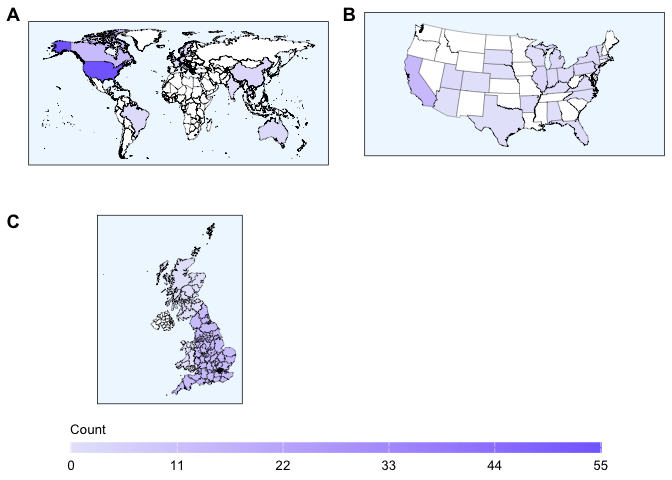
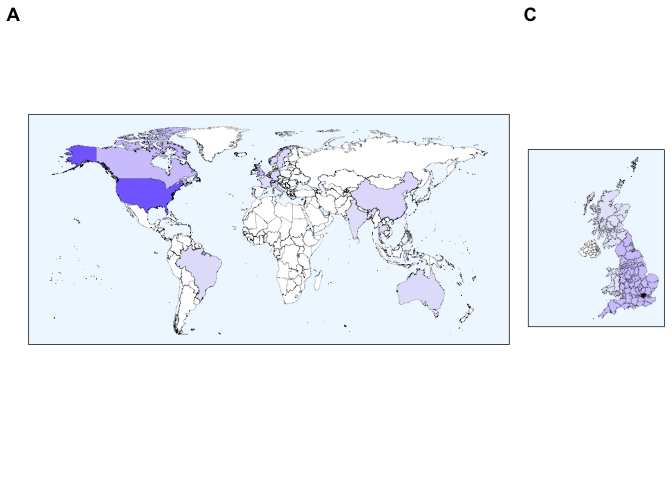
adjusted line width and plot order for choropleth array

diff --git a/scripts/cleaning-script.md b/scripts/cleaning-script.md
@@ -413,7 +413,7 @@ crs_robin <- "+proj=robin +lat_0=0 +lon_0=0 +x0=0 +y0=0"
 spatial_frequencies_joined <- left_join(global_shapefile,spatial_frequencies,by="country")
 national_frequencies <- spatial_frequencies_joined %>%
   ggplot(aes(x=long,y=lat,fill=frequency,group=group)) + 
-  geom_polygon(color="black",linewidth=0.1) +
+  geom_polygon(color="black",linewidth=0.05) +
   scale_fill_gradient(low="lavender",high="lightslateblue",na.value="white",limits=c(0,55),breaks=c(0,11,22,33,44,55)) +
   coord_sf(crs=crs_robin) +
   xlab("") + 
@@ -430,10 +430,7 @@ usa_shapefile <- map_data("county") %>%
   rename(state=region)
 ```
 
-``` r
-usa_shapefile <- map_data("state") %>%
-  rename(state=region)
-```
+usa_shapefile \<- map_data(“state”) %\>% rename(state=region)
 
 ``` r
 state_frequencies <- extraction_data %>%
@@ -480,7 +477,7 @@ state_frequencies_joined <- left_join(usa_shapefile,state_frequencies,by="state"
 ``` r
 usa_frequencies <- state_frequencies_joined %>%
   ggplot(aes(x=long,y=lat,fill=frequency,group=group)) + 
-  geom_polygon(color="black",linewidth=0.1) +
+  geom_polygon(color="black",linewidth=0.05) +
   scale_fill_gradient(low="lavender",high="lightslateblue",na.value="white",limits=c(1,55)) +
   xlab("") + 
   ylab("") +
@@ -515,6 +512,38 @@ uk_shapefile <- ne_states(country="united kingdom",returnclass="sf")
 ```
 
 ``` r
+as.tibble(uk_shapefile)
+```
+
+    ## Warning: `as.tibble()` was deprecated in tibble 2.0.0.
+    ## ℹ Please use `as_tibble()` instead.
+    ## ℹ The signature and semantics have changed, see `?as_tibble`.
+    ## This warning is displayed once every 8 hours.
+    ## Call `lifecycle::last_lifecycle_warnings()` to see where this warning was
+    ## generated.
+
+    ## # A tibble: 232 × 122
+    ##    featurecla    scalerank adm1_code diss_me iso_3166_2 wikipedia iso_a2 adm0_sr
+    ##    <chr>             <int> <chr>       <int> <chr>      <chr>     <chr>    <int>
+    ##  1 Admin-1 stat…         8 GBR-2083     2083 GB-DRY     <NA>      GB           1
+    ##  2 Admin-1 stat…         8 GBR-2135     2135 GB-STB     <NA>      GB           1
+    ##  3 Admin-1 stat…         8 GBR-2136     2136 GB-FER     <NA>      GB           1
+    ##  4 Admin-1 stat…         8 GBR-2089     2089 GB-DGN     <NA>      GB           1
+    ##  5 Admin-1 stat…         8 GBR-2085     2085 GB-ARM     <NA>      GB           1
+    ##  6 Admin-1 stat…         8 GBR-2086     2086 GB-NYM     <NA>      GB           1
+    ##  7 Admin-1 stat…         8 GBR-2126     2126 GB-FLN     <NA>      GB           1
+    ##  8 Admin-1 stat…         8 GBR-5707     5707 GB-CHW     <NA>      GB           1
+    ##  9 Admin-1 stat…         8 GBR-2127     2127 GB-WRX     <NA>      GB           1
+    ## 10 Admin-1 stat…         8 GBR-2779     2779 GB-SHR     <NA>      GB           1
+    ## # ℹ 222 more rows
+    ## # ℹ 114 more variables: name <chr>, name_alt <chr>, name_local <chr>,
+    ## #   type <chr>, type_en <chr>, code_local <chr>, code_hasc <chr>, note <chr>,
+    ## #   hasc_maybe <chr>, region <chr>, region_cod <chr>, provnum_ne <int>,
+    ## #   gadm_level <int>, check_me <int>, datarank <int>, abbrev <chr>,
+    ## #   postal <chr>, area_sqkm <int>, sameascity <int>, labelrank <int>,
+    ## #   name_len <int>, mapcolor9 <int>, mapcolor13 <int>, fips <chr>, …
+
+``` r
 subnational_frequencies <- subnational_frequencies %>%
   mutate(across('subregion',str_replace,"Great Britain","England")) %>%
   rename(geonunit=subregion)
@@ -535,11 +564,14 @@ subnational_frequencies_joined <- left_join(uk_shapefile,subnational_frequencies
 ``` r
 uk_frequencies <- subnational_frequencies_joined %>%
 ggplot(aes(fill=frequency,group=geonunit)) + 
-  geom_sf(aes(fill=frequency),color="black",linewidth=0.1) +
+  geom_sf(aes(fill=frequency),color="black",linewidth=0.05) +
   scale_fill_gradient(low="lavender",high="lightslateblue",na.value="white",limits=c(1,55)) +
   labs(fill="Count") +
   theme(aspect.ratio=1.3,legend.position="bottom",legend.title.position="top",legend.key.width=unit(80,"pt"),legend.key.height=unit(8,"pt"),panel.grid=element_blank(),panel.background=element_rect(fill="aliceblue"),panel.border=element_rect(fill=NA),axis.text=element_blank(),axis.ticks=element_blank(),legend.title=element_text(size=10),legend.text=element_text(size=10),plot.title=element_text(size=10))
+uk_frequencies
 ```
+
+![](cleaning-script_files/figure-gfm/unnamed-chunk-22-1.png)<!-- -->
 
 ``` r
 dummy_legend <- temporal_frequencies_plot
@@ -561,8 +593,8 @@ choro_legend
 ``` r
 subnational_frequency_choros <- ggarrange(usa_frequencies,uk_frequencies,
                                          ncol=2,
-                                         widths=c(1,1),
-                                         heights=c(1.2,1),
+                                         widths=c(1,.7),
+                                         heights=c(1,1),
                                          labels=c("B","C"),
                                          common.legend=TRUE,
                                          legend="bottom")
@@ -573,14 +605,36 @@ national_frequency_choros <- ggarrange(national_frequencies,
 ```
 
 ``` r
-ggarrange(national_frequencies,usa_frequencies,uk_frequencies,
-          nrows=2,
-          labels=c("A","B","C"),
+choro_row1 <- ggarrange(national_frequencies,uk_frequencies,
+          ncol=2,
+          widths=c(1,0.3),
+          labels=c("A","C"),
           common.legend=TRUE,
-          legend="bottom")
+          legend="none")
+choro_row1
 ```
 
 ![](cleaning-script_files/figure-gfm/unnamed-chunk-25-1.png)<!-- -->
+
+``` r
+choro_row2 <- ggarrange(usa_frequencies,
+          labels=c("B"),
+          ncol=1,
+          legend="bottom")
+choro_row2
+```
+
+![](cleaning-script_files/figure-gfm/unnamed-chunk-26-1.png)<!-- -->
+
+``` r
+spatial_plots_2 <- ggarrange(choro_row1,choro_row2,
+                           nrow=2,
+                           heights=c(1,1))
+ggsave(filename="publication-distribution_2.png",plot=spatial_plots_2,path="/Users/kenjinchang/github/stakeholder-analysis/figures",width=35,height=28,units="cm",dpi=150,limitsize=TRUE)
+spatial_plots_2
+```
+
+![](cleaning-script_files/figure-gfm/unnamed-chunk-27-1.png)<!-- -->
 
 ``` r
 spatial_plots <- ggarrange(national_frequency_choros,subnational_frequency_choros,
@@ -590,7 +644,7 @@ ggsave(filename="publication-distribution.png",plot=spatial_plots,path="/Users/k
 spatial_plots
 ```
 
-![](cleaning-script_files/figure-gfm/unnamed-chunk-26-1.png)<!-- -->
+![](cleaning-script_files/figure-gfm/unnamed-chunk-28-1.png)<!-- -->
 
 ### Primary Performance Indicators
 
@@ -748,7 +802,7 @@ print(round(ppi_percentage_contributions,2))
 pheatmap(ppi_percentage_contributions,display_numbers=TRUE,cluster_rows=FALSE,cluster_cols=FALSE,main="Percentage Contributions to Chi-Square Statistic")
 ```
 
-![](cleaning-script_files/figure-gfm/unnamed-chunk-37-1.png)<!-- -->
+![](cleaning-script_files/figure-gfm/unnamed-chunk-39-1.png)<!-- -->
 
 ``` r
 ppi_contingency_table_alt <- ppi_contingency_table %>%
@@ -929,7 +983,7 @@ api_frequencies_plot <- api_contigency_table_alt %>%
 api_frequencies_plot
 ```
 
-![](cleaning-script_files/figure-gfm/unnamed-chunk-44-1.png)<!-- -->
+![](cleaning-script_files/figure-gfm/unnamed-chunk-46-1.png)<!-- -->
 
 ``` r
 ggsave(filename="acceptability-theme-frequencies.png",plot=api_frequencies_plot,path="/Users/kenjinchang/github/stakeholder-analysis/figures",width=30,height=15,units="cm",dpi=150,limitsize=TRUE)
@@ -1037,7 +1091,7 @@ library(pheatmap)
 pheatmap(api_percentage_contributions,display_numbers=TRUE,cluster_rows=FALSE,cluster_cols=FALSE,main="Percentage Contributions to Chi-Square Statistic")
 ```
 
-![](cleaning-script_files/figure-gfm/unnamed-chunk-51-1.png)<!-- -->
+![](cleaning-script_files/figure-gfm/unnamed-chunk-53-1.png)<!-- -->
 
 Rerun this using list class instead of variety class
 
@@ -1311,7 +1365,7 @@ print(round(qpi_percentage_contributions,2))
 pheatmap(qpi_percentage_contributions,display_numbers=TRUE,cluster_rows=FALSE,cluster_cols=FALSE,main="Percentage Contributions to Chi-Square Statistic")
 ```
 
-![](cleaning-script_files/figure-gfm/unnamed-chunk-71-1.png)<!-- -->
+![](cleaning-script_files/figure-gfm/unnamed-chunk-73-1.png)<!-- -->
 
 ``` r
 principal_qualifying_indicator_plots <- ggarrange(ppi_frequencies_plot,qpi_frequencies_plot,
@@ -1328,7 +1382,7 @@ ggsave(filename="combined-performance-indicators.png",plot=combined_indicators,p
 combined_indicators
 ```
 
-![](cleaning-script_files/figure-gfm/unnamed-chunk-73-1.png)<!-- -->
+![](cleaning-script_files/figure-gfm/unnamed-chunk-75-1.png)<!-- -->
 
 ### Gap Monitoring
 
@@ -1545,7 +1599,7 @@ duration_data %>% ggplot(aes(x=role,y=position_duration,fill=position_type)) +
   geom_col() 
 ```
 
-![](cleaning-script_files/figure-gfm/unnamed-chunk-80-1.png)<!-- -->
+![](cleaning-script_files/figure-gfm/unnamed-chunk-82-1.png)<!-- -->
 
 ``` r
 authority <- c("Decision Maker","Decision Maker","Decision Maker","Decision Maker","Consultant","Consultant","Consultant","Consultant","Consultant","Consultant","Consultant","Consultant")
@@ -1615,7 +1669,7 @@ ggsave(filename="predictors-of-authority.png",plot=duration_roletype_plots,path=
 duration_roletype_plots
 ```
 
-![](cleaning-script_files/figure-gfm/unnamed-chunk-84-1.png)<!-- -->
+![](cleaning-script_files/figure-gfm/unnamed-chunk-86-1.png)<!-- -->
 
 ``` r
 duration_data %>%
@@ -2031,7 +2085,7 @@ score_frequencies %>%
   theme(legend.position="none",panel.grid=element_blank(),panel.background=element_rect(fill="white"),panel.border=element_rect(fill=NA),legend.title=element_text(size=10),legend.text=element_text(size=10),plot.title=element_text(size=10))
 ```
 
-![](cleaning-script_files/figure-gfm/unnamed-chunk-101-1.png)<!-- -->
+![](cleaning-script_files/figure-gfm/unnamed-chunk-103-1.png)<!-- -->
 need to put anova value in caption - could also consider boxplot/violin
 plot
 
@@ -2235,7 +2289,7 @@ print(round(first_choice_percentage_contributions,2))
 pheatmap(first_choice_percentage_contributions,display_numbers=TRUE,cluster_rows=FALSE,cluster_cols=FALSE,main="Percentage Contributions to Chi-Square Statistic")
 ```
 
-![](cleaning-script_files/figure-gfm/unnamed-chunk-112-1.png)<!-- -->
+![](cleaning-script_files/figure-gfm/unnamed-chunk-114-1.png)<!-- -->
 
 ``` r
 first_choice_contingency_table <- first_choice_frequencies %>%
@@ -2319,7 +2373,7 @@ score_frequencies %>%
   theme(aspect.ratio=0.8,legend.position="none",panel.grid=element_blank(),panel.background=element_rect(fill="white"),panel.border=element_rect(fill=NA),legend.title=element_text(size=10),legend.text=element_text(size=10),plot.title=element_text(size=10))
 ```
 
-![](cleaning-script_files/figure-gfm/unnamed-chunk-115-1.png)<!-- -->
+![](cleaning-script_files/figure-gfm/unnamed-chunk-117-1.png)<!-- -->
 
 ``` r
 preliminary_indicator_rankings <- 
@@ -2330,7 +2384,7 @@ ggsave(filename="preliminary_indicator_rankings.png",plot=preliminary_indicator_
 preliminary_indicator_rankings
 ```
 
-![](cleaning-script_files/figure-gfm/unnamed-chunk-116-1.png)<!-- -->
+![](cleaning-script_files/figure-gfm/unnamed-chunk-118-1.png)<!-- -->
 
 ``` r
 priority_score_frequencies <- tibble(comparison_indicator=c("Guest Dining Experience","Dietary Health","Operating Costs","Sustainability of Guest Food Choices","Food Pricing","Institutional Sustainability","Campus Culture","Staff Satisfaction"),guest_dining_experience_selection_frequency=as.double(NA),dietary_health_selection_frequency=as.double(NA),operating_costs_selection_frequency=as.double(NA),dietary_sustainability_selection_frequency=as.double(NA),food_pricing_selection_frequency=as.double(NA),institutional_sustainability_selection_frequency=as.double(NA),campus_culture_selection_frequency=as.double(NA),staff_satisfaction_selection_frequency=as.double(NA))
@@ -3398,7 +3452,7 @@ selection_probability_plot <- priority_probability_table %>%
 selection_probability_plot
 ```
 
-![](cleaning-script_files/figure-gfm/unnamed-chunk-148-1.png)<!-- -->
+![](cleaning-script_files/figure-gfm/unnamed-chunk-150-1.png)<!-- -->
 
 selection_frequency_plot
 geom_violin(color=“black”,draw_quantiles=0.5,alpha=0.6,size=0.2,adjust=1)
@@ -4639,7 +4693,7 @@ decision_maker_selection_probability_plot <- decision_maker_priority_probability
 decision_maker_selection_probability_plot
 ```
 
-![](cleaning-script_files/figure-gfm/unnamed-chunk-180-1.png)<!-- -->
+![](cleaning-script_files/figure-gfm/unnamed-chunk-182-1.png)<!-- -->
 
 scale_y_continuous(breaks=c(0.1,0.2,0.3,0.4,0.5,0.6,0.7,0.8,0.9),limits=c(0.15,0.85)) +
 scale_x_discrete(label=c(“Staff Satisfaction (8th)”,“Organizational
@@ -5872,7 +5926,7 @@ technical_advisor_selection_probability_plot <- technical_advisor_priority_proba
 technical_advisor_selection_probability_plot
 ```
 
-![](cleaning-script_files/figure-gfm/unnamed-chunk-216-1.png)<!-- -->
+![](cleaning-script_files/figure-gfm/unnamed-chunk-218-1.png)<!-- -->
 Guest Dining Experience 0.7500000 0.08660254  
 Dietary Health 0.6285714 0.13183684  
 Operating Costs 0.5785714 0.16547191  
@@ -5915,7 +5969,7 @@ ggsave(filename="selection_probability_distributions.png",plot=selection_probabi
 selection_probability_distribution_plots
 ```
 
-![](cleaning-script_files/figure-gfm/unnamed-chunk-219-1.png)<!-- -->
+![](cleaning-script_files/figure-gfm/unnamed-chunk-221-1.png)<!-- -->
 
 could use geom_jitter more strategically to highlight asymmetries in
 stakeholder/role types
@@ -6196,7 +6250,7 @@ ordinal_joint_correlation_plot
 
     ## `geom_smooth()` using formula = 'y ~ x'
 
-![](cleaning-script_files/figure-gfm/unnamed-chunk-231-1.png)<!-- -->
+![](cleaning-script_files/figure-gfm/unnamed-chunk-233-1.png)<!-- -->
 
 ``` r
 shapiro.test(ordinal_joint_correlation_table$appearance_likelihood)
@@ -6348,7 +6402,7 @@ joint_correlation_plot
     ## Warning: Removed 2 rows containing missing values or values outside the scale range
     ## (`geom_smooth()`).
 
-![](cleaning-script_files/figure-gfm/unnamed-chunk-241-1.png)<!-- -->
+![](cleaning-script_files/figure-gfm/unnamed-chunk-243-1.png)<!-- -->
 
 ``` r
 joint_correlation_lm <- lm(appearance_likelihood~selection_probability,data=joint_correlation_table)
@@ -6398,7 +6452,7 @@ campus_culture_limited_joint_correlation_table %>%
 
     ## `geom_smooth()` using formula = 'y ~ x'
 
-![](cleaning-script_files/figure-gfm/unnamed-chunk-244-1.png)<!-- -->
+![](cleaning-script_files/figure-gfm/unnamed-chunk-246-1.png)<!-- -->
 
 ``` r
 campus_culture_limited_joint_correlation_lm <- lm(appearance_likelihood~selection_probability,data=campus_culture_limited_joint_correlation_table)
@@ -6500,4 +6554,4 @@ priority_z_score_table %>%
   theme(aspect.ratio=0.8,legend.position="none",panel.grid=element_blank(),panel.background=element_rect(fill="white"),panel.border=element_rect(fill=NA),legend.title=element_text(size=10),legend.text=element_text(size=10),plot.title=element_text(size=10))
 ```
 
-![](cleaning-script_files/figure-gfm/unnamed-chunk-248-1.png)<!-- -->
+![](cleaning-script_files/figure-gfm/unnamed-chunk-250-1.png)<!-- -->
